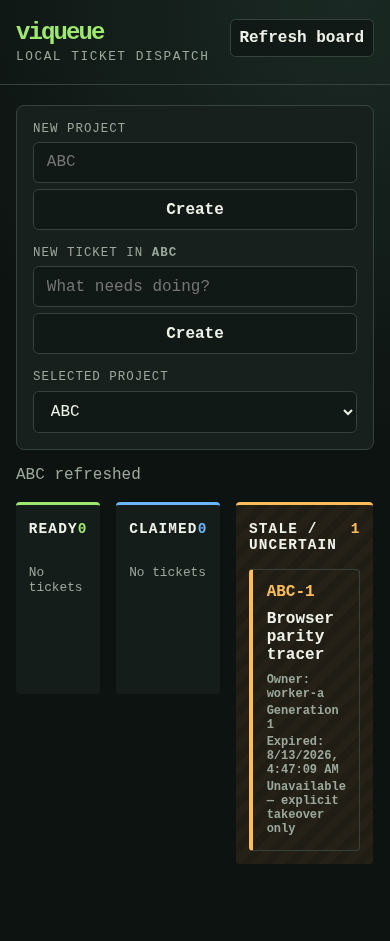
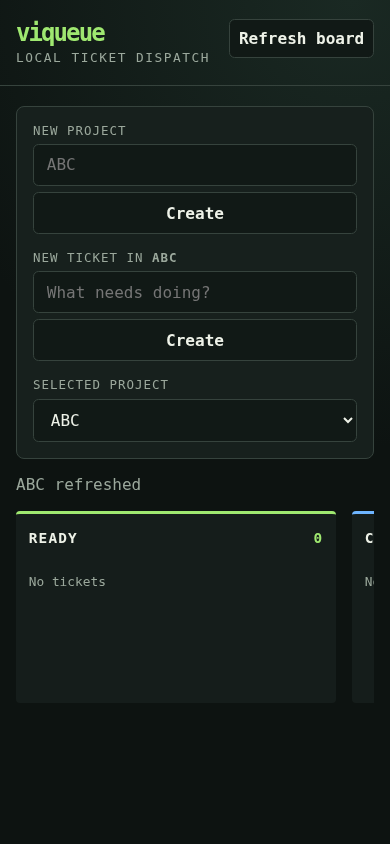
fix mobile board sizing and isolate rerun evidence

diff --git a/web/app.css b/web/app.css
@@ -1,3 +1,3 @@
 :root{--ink:#eef2e8;--muted:#9ba89c;--panel:#17201d;--edge:#36433d;--ready:#9fe870;--claimed:#6eb5ff;--stale:#ffbd59;--submitted:#bd8cff;--bg:#0d1311;font-family:ui-monospace,"SFMono-Regular",Consolas,monospace;color:var(--ink);background:var(--bg)}*{box-sizing:border-box}body{margin:0;min-height:100vh;background:radial-gradient(circle at 90% 0,#1a2923 0,transparent 28rem),var(--bg)}button,input,select{font:inherit}button,input,select{border:1px solid var(--edge);border-radius:.35rem;background:#111916;color:var(--ink);padding:.65rem .8rem}button{cursor:pointer;font-weight:700}button:hover{border-color:var(--ready)}button:disabled{opacity:.45;cursor:not-allowed}:focus-visible{outline:3px solid #fff;outline-offset:3px}.masthead{display:flex;justify-content:space-between;align-items:center;padding:1.2rem clamp(1rem,4vw,3.5rem);border-bottom:1px solid var(--edge)}h1{font-size:clamp(1.5rem,4vw,2.5rem);letter-spacing:-.08em;margin:0;color:var(--ready)}.masthead p{margin:.2rem 0 0;color:var(--muted);font-size:.8rem;text-transform:uppercase;letter-spacing:.12em}main{padding:1.25rem clamp(1rem,4vw,3.5rem) 3rem}.controls{display:grid;grid-template-columns:minmax(15rem,1fr) minmax(18rem,2fr) minmax(12rem,.7fr);gap:1rem;align-items:end;padding:1rem;background:var(--panel);border:1px solid var(--edge);border-radius:.5rem}.controls label,dialog label{display:block;color:var(--muted);font-size:.78rem;text-transform:uppercase;letter-spacing:.08em;margin-bottom:.4rem}.field-row{display:flex}.field-row input{min-width:0;flex:1;border-radius:.35rem 0 0 .35rem}.field-row button{border-radius:0 .35rem .35rem 0}.controls select{width:100%}.controls>div{min-width:0}.status{min-height:1.25rem;color:var(--muted)}.status.error{color:#ff8d87}.board{display:grid;grid-template-columns:repeat(4,minmax(16rem,1fr));gap:1rem;align-items:start}.column{background:color-mix(in srgb,var(--panel) 86%,transparent);border-top:3px solid var(--accent);border-radius:.25rem;padding:.8rem;min-height:12rem}.column h2{display:flex;justify-content:space-between;margin:.15rem 0 1rem;font-size:.9rem;text-transform:uppercase;letter-spacing:.08em}.count{color:var(--accent)}.cards{display:grid;gap:.7rem}.card{width:100%;text-align:left;padding:.85rem;background:#111916;border:1px solid var(--edge);border-left:4px solid var(--accent);border-radius:.25rem;color:var(--ink)}.card:hover{border-color:var(--accent)}.card-id{color:var(--accent);font-weight:800}.card-title{display:block;margin:.55rem 0;overflow-wrap:anywhere}.meta{display:grid;gap:.2rem;color:var(--muted);font-size:.75rem}.empty{color:var(--muted);font-size:.8rem}.state-ready{--accent:var(--ready)}.state-claimed{--accent:var(--claimed)}.state-stale{--accent:var(--stale);background:repeating-linear-gradient(135deg,#201d15,#201d15 8px,#262116 8px,#262116 16px)}.state-submitted{--accent:var(--submitted)}dialog{width:min(38rem,calc(100% - 2rem));border:1px solid var(--edge);border-radius:.5rem;background:var(--panel);color:var(--ink);padding:1.2rem}dialog::backdrop{background:#050807d9}.dialog-head{display:flex;justify-content:space-between;align-items:center}.dialog-head h2{margin:0}.dialog-head button{font-size:1.4rem;padding:.2rem .55rem}.detail-grid{display:grid;grid-template-columns:max-content 1fr;gap:.55rem 1rem;margin:1rem 0}.detail-grid dt{color:var(--muted)}.detail-grid dd{margin:0;overflow-wrap:anywhere}.evidence{white-space:pre-wrap;overflow-wrap:anywhere;padding:.8rem;background:#0d1311;border:1px solid var(--edge)}dialog input{width:100%;margin-bottom:1rem}.warning{border-left:4px solid var(--stale);padding:.7rem;background:#261f13}.dialog-actions{display:flex;justify-content:flex-end;gap:.6rem}.danger{border-color:var(--stale);color:var(--stale)}
 @media(max-width:900px){.controls{grid-template-columns:1fr 1fr}.controls>div{grid-column:1/-1}.board{grid-template-columns:repeat(2,minmax(0,1fr))}}
-@media(max-width:560px){.masthead{align-items:flex-start}.masthead button{padding:.55rem}.controls{grid-template-columns:1fr}.controls>label{grid-column:auto}.board{display:flex;overflow-x:auto;scroll-snap-type:x mandatory;padding-bottom:1rem}.column{flex:0 0:min(86vw,20rem);scroll-snap-align:start}.field-row{flex-direction:column}.field-row input,.field-row button{border-radius:.35rem}.field-row button{margin-top:.4rem}.detail-grid{grid-template-columns:1fr}.detail-grid dt{margin-top:.4rem}}
+@media(max-width:560px){.masthead{align-items:flex-start}.masthead button{padding:.55rem}.controls{grid-template-columns:1fr}.controls>label{grid-column:auto}.board{display:flex;overflow-x:auto;scroll-snap-type:x mandatory;padding-bottom:1rem}.column{flex:0 0 min(86vw, 20rem);scroll-snap-align:start}.field-row{flex-direction:column}.field-row input,.field-row button{border-radius:.35rem}.field-row button{margin-top:.4rem}.detail-grid{grid-template-columns:1fr}.detail-grid dt{margin-top:.4rem}}

diff --git a/test/browser-e2e.js b/test/browser-e2e.js
@@ -22,7 +22,8 @@ for (let tries = 0; tries < 100; tries += 1) {
   await new Promise((resolve) => setTimeout(resolve, 20));
 }
 
-await mkdir('evidence/screenshots', { recursive: true });
+const evidenceDir = process.env.VIQ_EVIDENCE_DIR ?? 'evidence';
+await mkdir(`${evidenceDir}/screenshots`, { recursive: true });
 const browser = await chromium.launch({ headless: true });
 const page = await browser.newPage({ viewport: { width: 1440, height: 960 }, deviceScaleFactor: 1 });
 const log = [];
@@ -52,11 +53,12 @@ try {
   await stale.getByText('Unavailable — explicit takeover only').waitFor();
   note('board reflected stale/uncertain and did not show ticket as ready');
 
-  await page.screenshot({ path: 'evidence/screenshots/board-desktop-stale.png', fullPage: true });
+  await page.screenshot({ path: `${evidenceDir}/screenshots/board-desktop-stale.png`, fullPage: true });
   const mobile = await browser.newPage({ viewport: { width: 390, height: 844 }, deviceScaleFactor: 1 });
   await mobile.goto(base); await mobile.getByText('ABC-1').waitFor();
-  await mobile.screenshot({ path: 'evidence/screenshots/board-mobile-stale.png', fullPage: true });
+  await mobile.screenshot({ path: `${evidenceDir}/screenshots/board-mobile-stale.png`, fullPage: true });
   assert.equal(await mobile.evaluate(() => document.documentElement.scrollWidth <= document.documentElement.clientWidth), true);
+  assert.equal(await mobile.locator('.column').first().evaluate((element) => element.getBoundingClientRect().width >= 300), true);
   await mobile.close(); note('captured desktop and 390px mobile stale-board screenshots without page overflow');
 
   await stale.getByRole('button', { name: /Open ABC-1/ }).click();
@@ -83,10 +85,10 @@ try {
   await submittedColumn.getByRole('button', { name: /Open ABC-1/ }).click();
   await page.getByText(/"browser": "green"/).waitFor();
   await page.getByLabel('Close ticket detail').click();
-  await page.screenshot({ path: 'evidence/screenshots/board-desktop-submitted.png', fullPage: true });
+  await page.screenshot({ path: `${evidenceDir}/screenshots/board-desktop-submitted.png`, fullPage: true });
   note('current owner submitted JSON evidence and board reflected submitted');
   note('BROWSER_E2E_OK');
 } finally {
   await browser.close(); server.kill();
-  await writeFile('evidence/browser-e2e-output.txt', `${log.join('\n')}\n`);
+  await writeFile(`${evidenceDir}/browser-e2e-output.txt`, `${log.join('\n')}\n`);
 }
